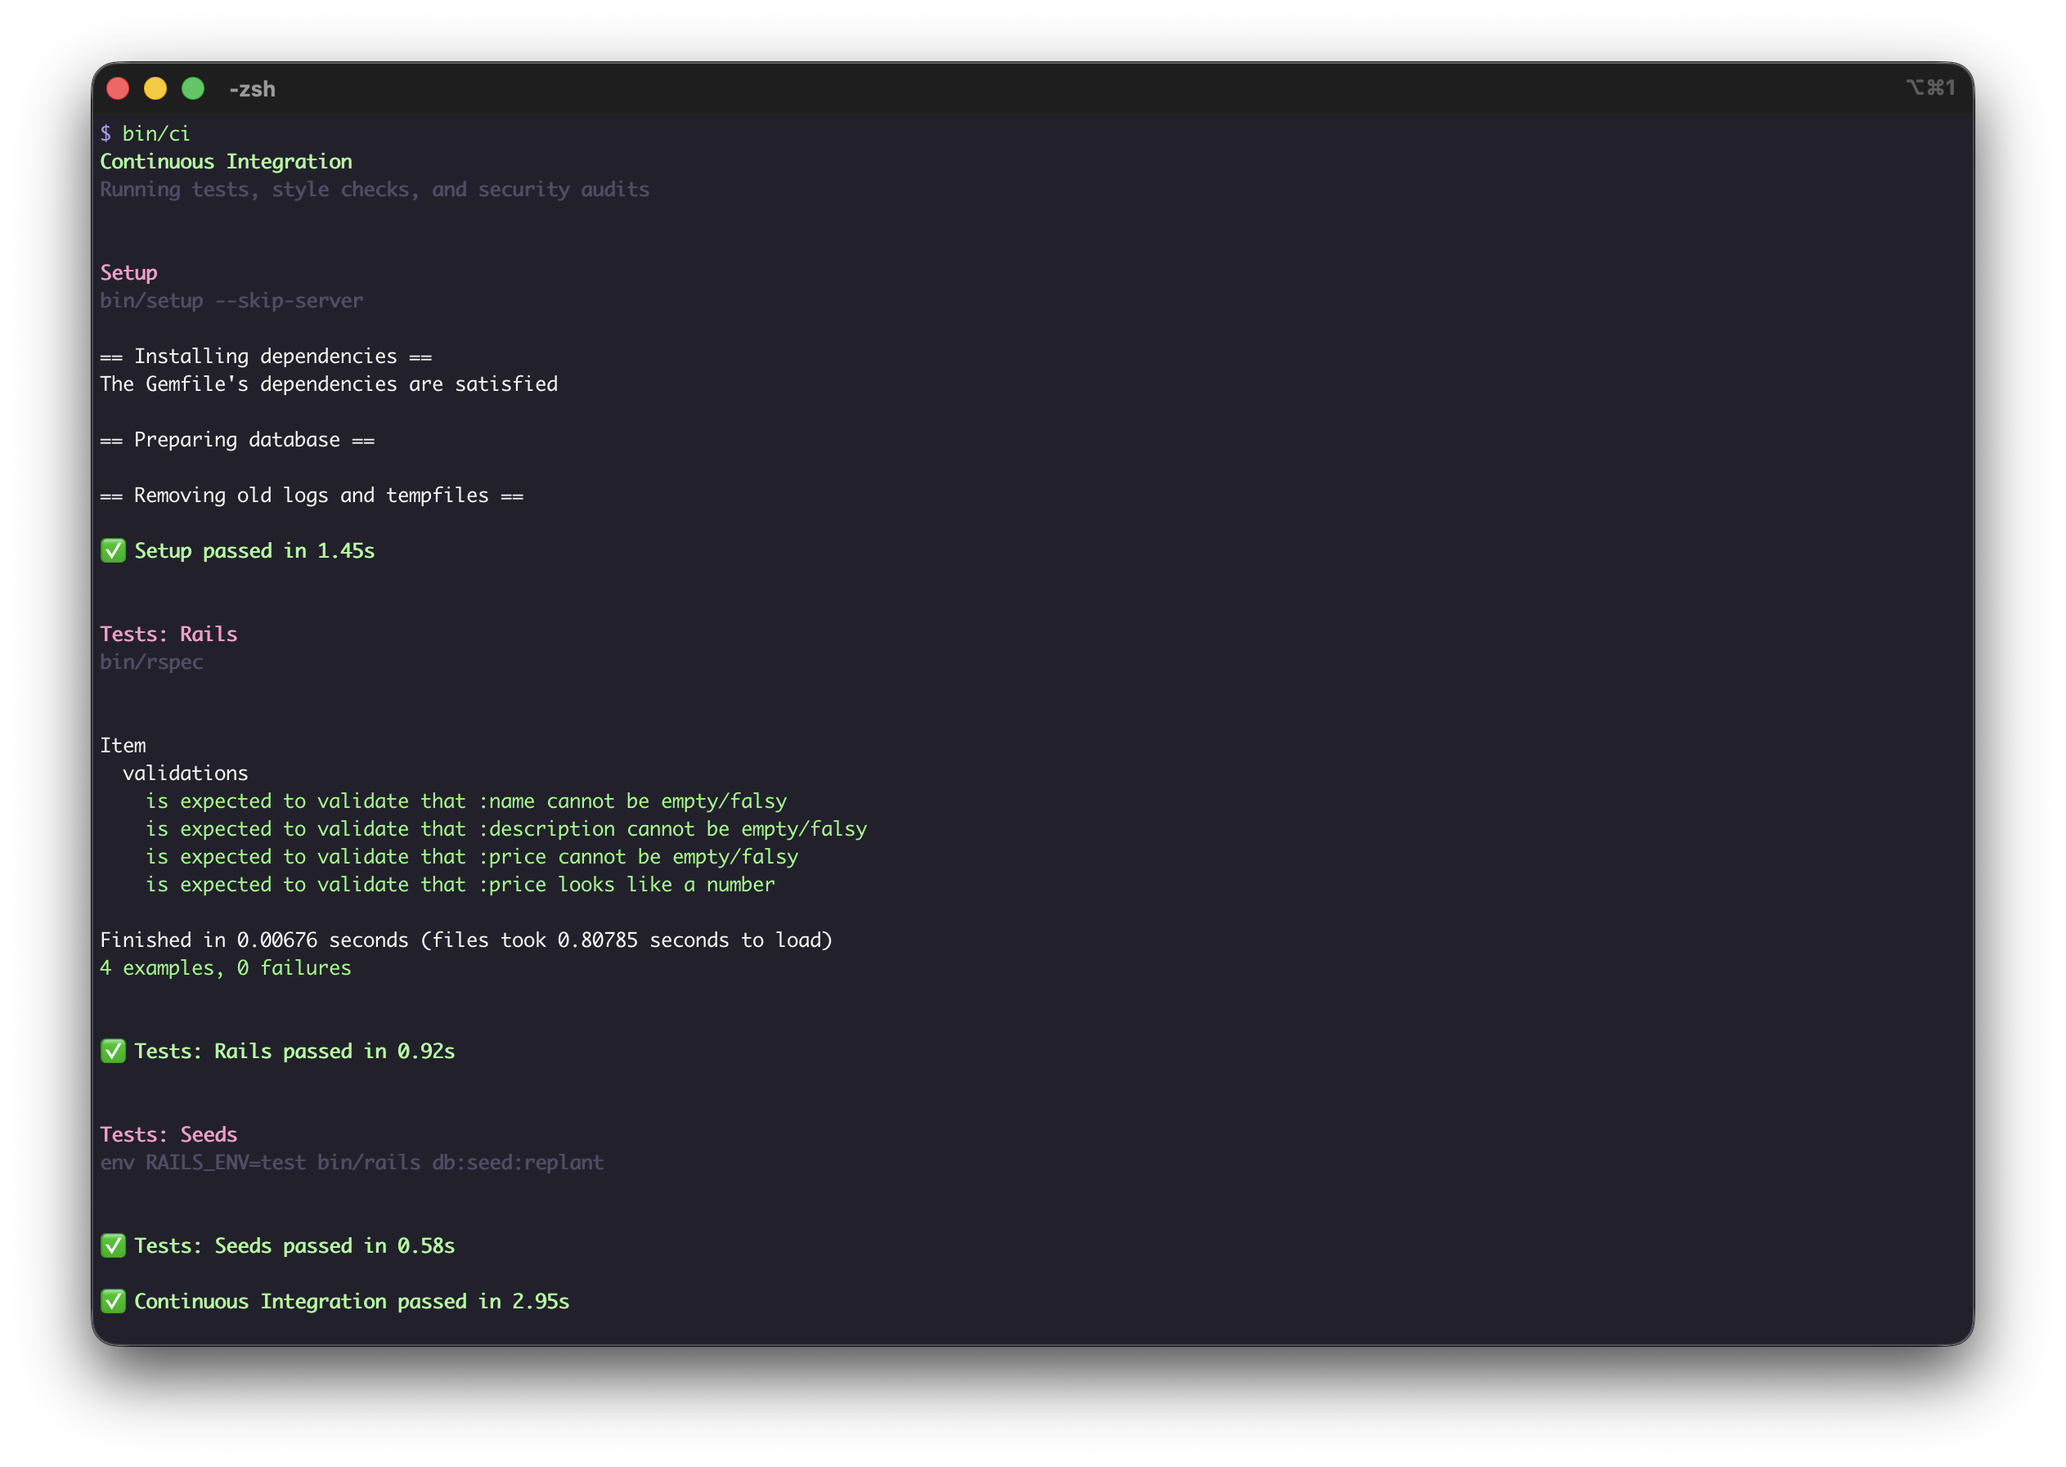
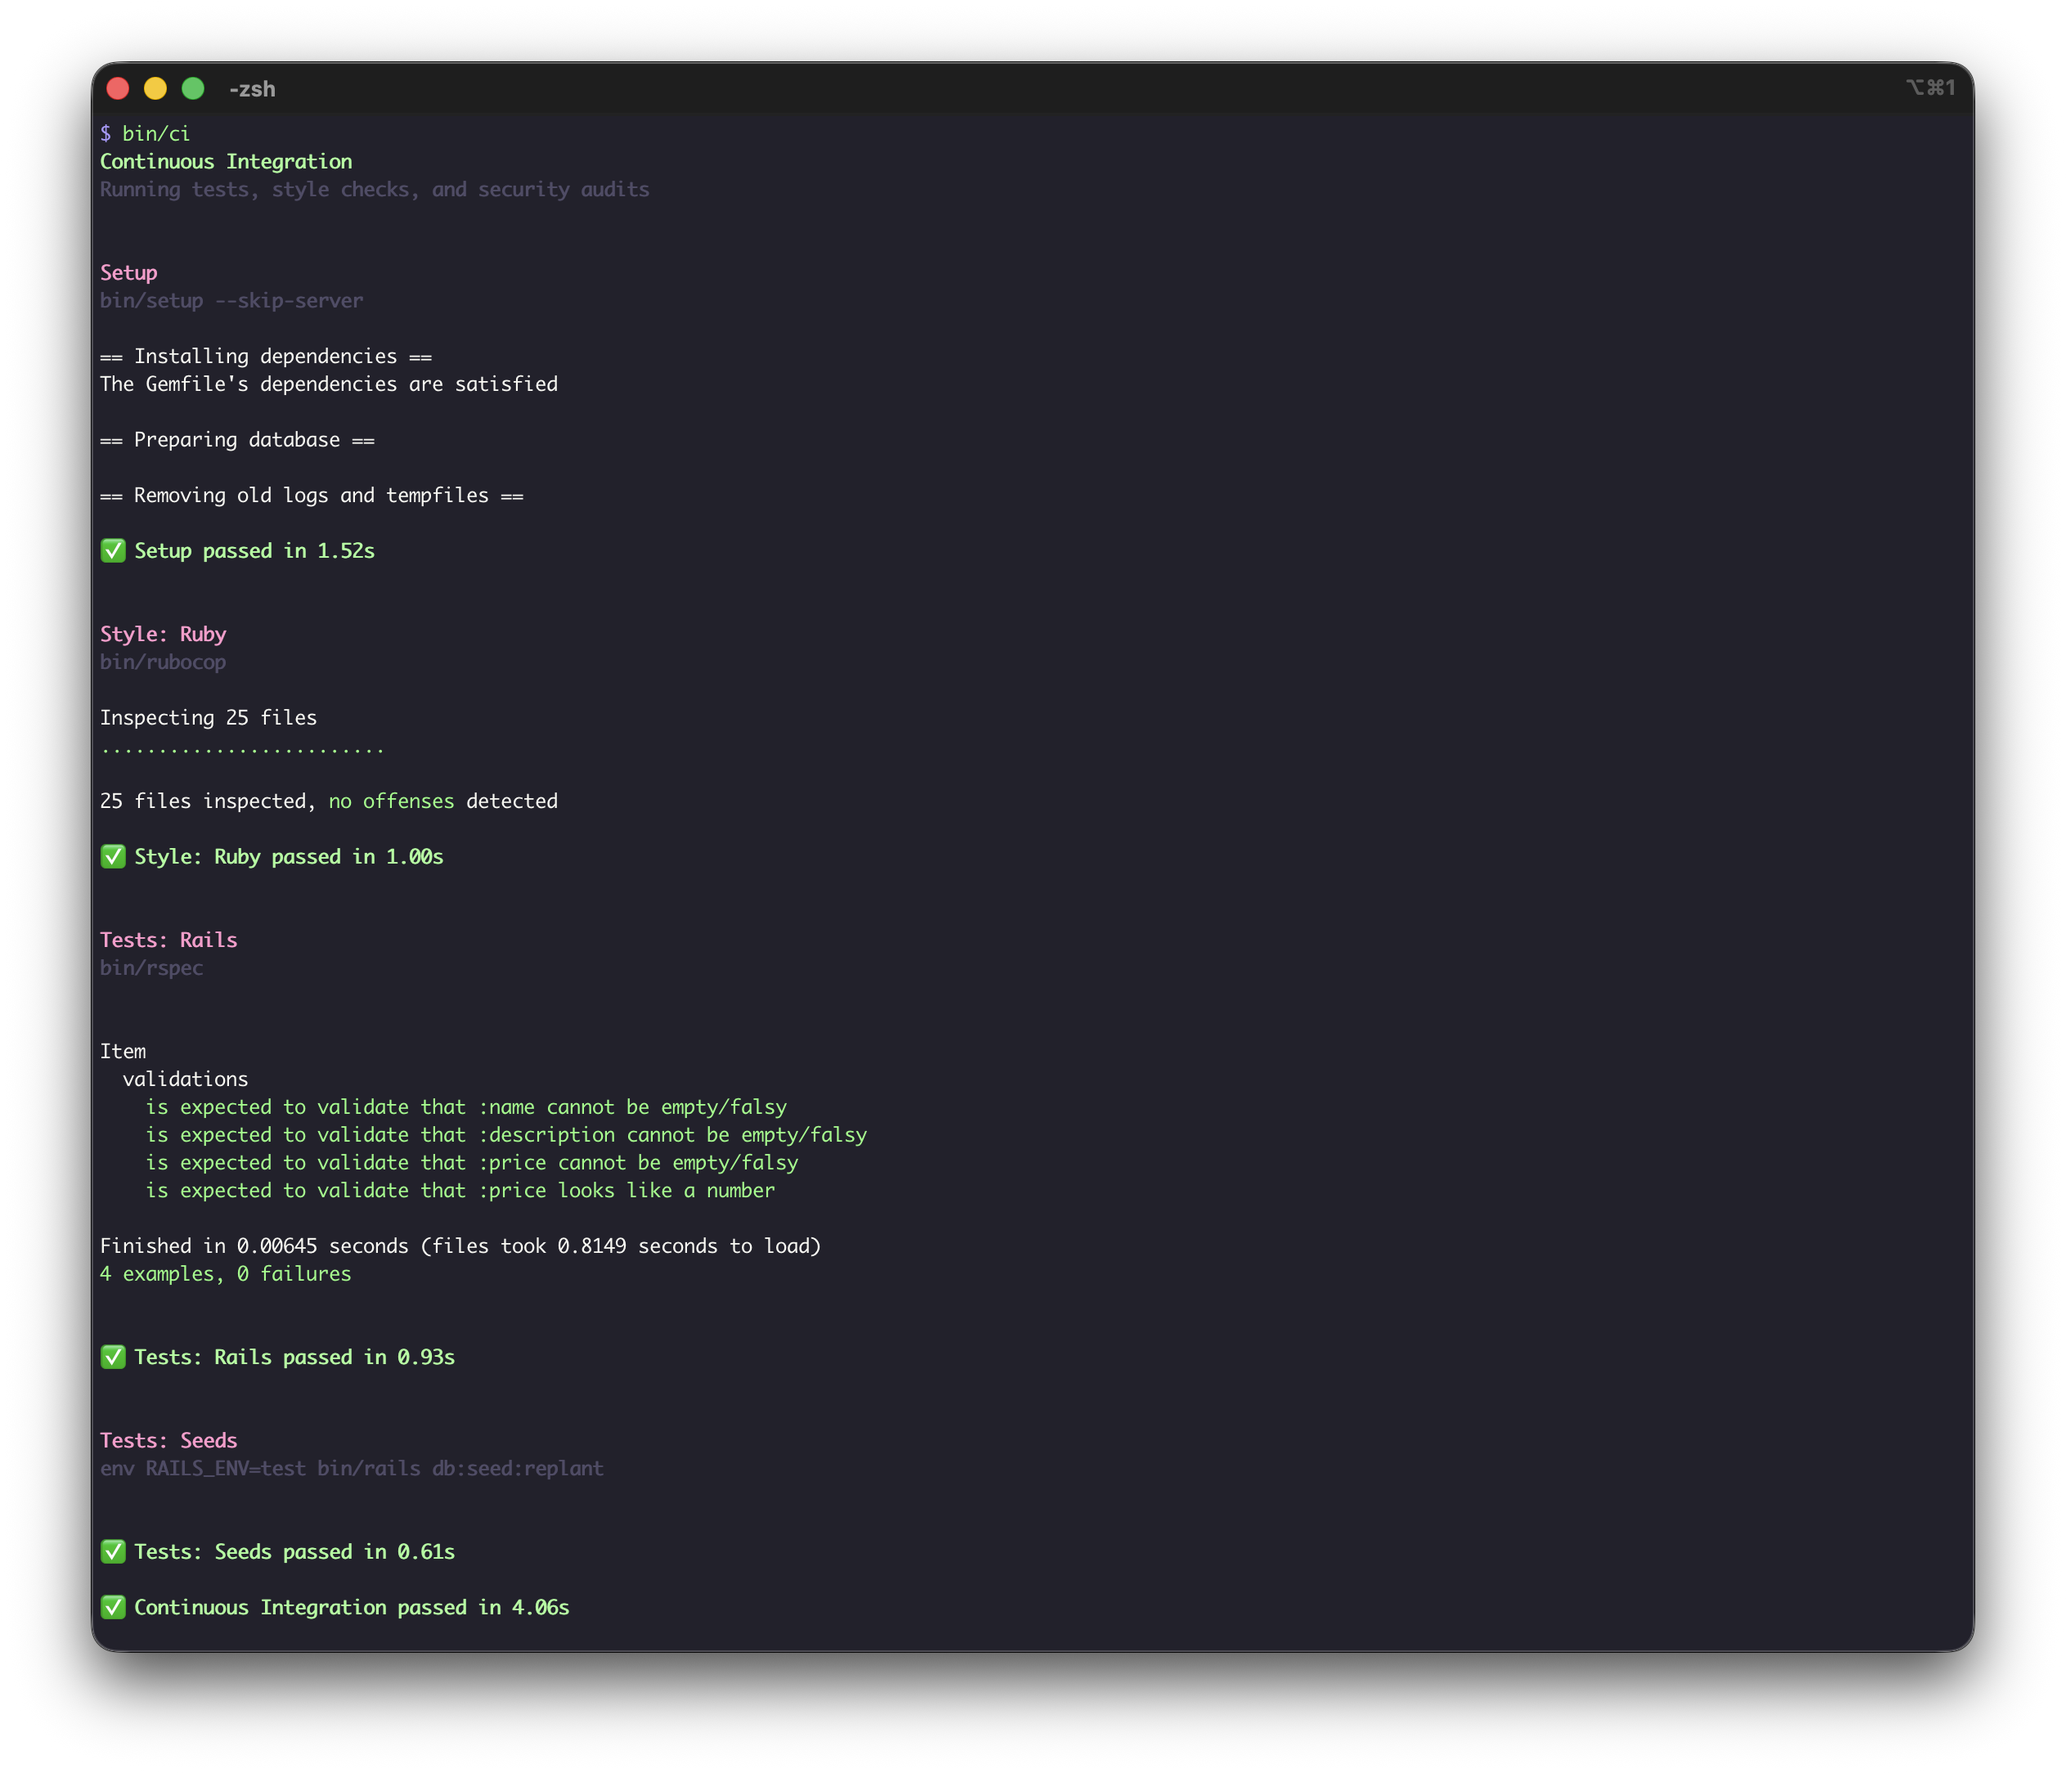
update ci output in readme with rubocop step

diff --git a/README.md b/README.md
@@ -43,7 +43,18 @@ The Gemfile's dependencies are satisfied
 
 == Removing old logs and tempfiles ==
 
-✅ Setup passed in 1.45s
+✅ Setup passed in 1.52s
+
+
+Style: Ruby
+bin/rubocop
+
+Inspecting 25 files
+.........................
+
+25 files inspected, no offenses detected
+
+✅ Style: Ruby passed in 1.00s
 
 
 Tests: Rails
@@ -57,20 +68,20 @@ Item
     is expected to validate that :price cannot be empty/falsy
     is expected to validate that :price looks like a number
 
-Finished in 0.00676 seconds (files took 0.80785 seconds to load)
+Finished in 0.00645 seconds (files took 0.8149 seconds to load)
 4 examples, 0 failures
 
 
-✅ Tests: Rails passed in 0.92s
+✅ Tests: Rails passed in 0.93s
 
 
 Tests: Seeds
 env RAILS_ENV=test bin/rails db:seed:replant
 
 
-✅ Tests: Seeds passed in 0.58s
+✅ Tests: Seeds passed in 0.61s
 
-✅ Continuous Integration passed in 2.95s
+✅ Continuous Integration passed in 4.06s
 ```
 
 ## Screenshots
